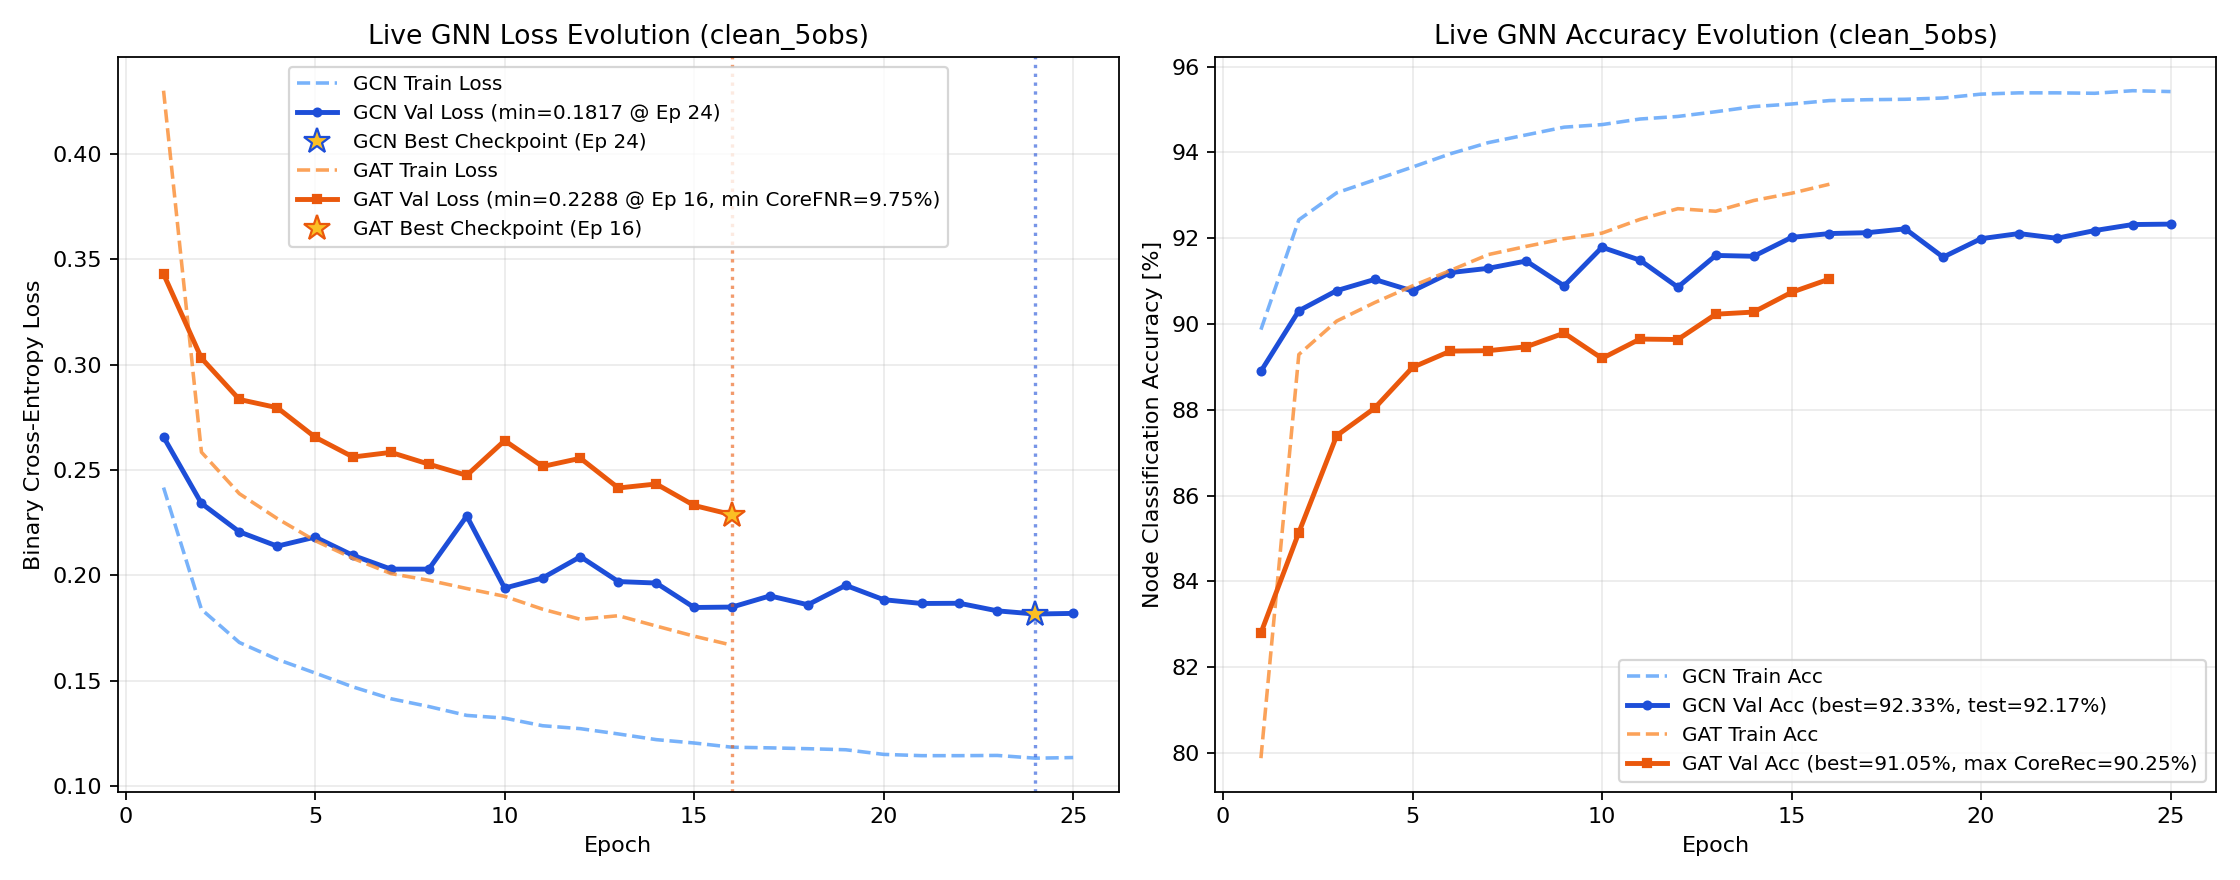
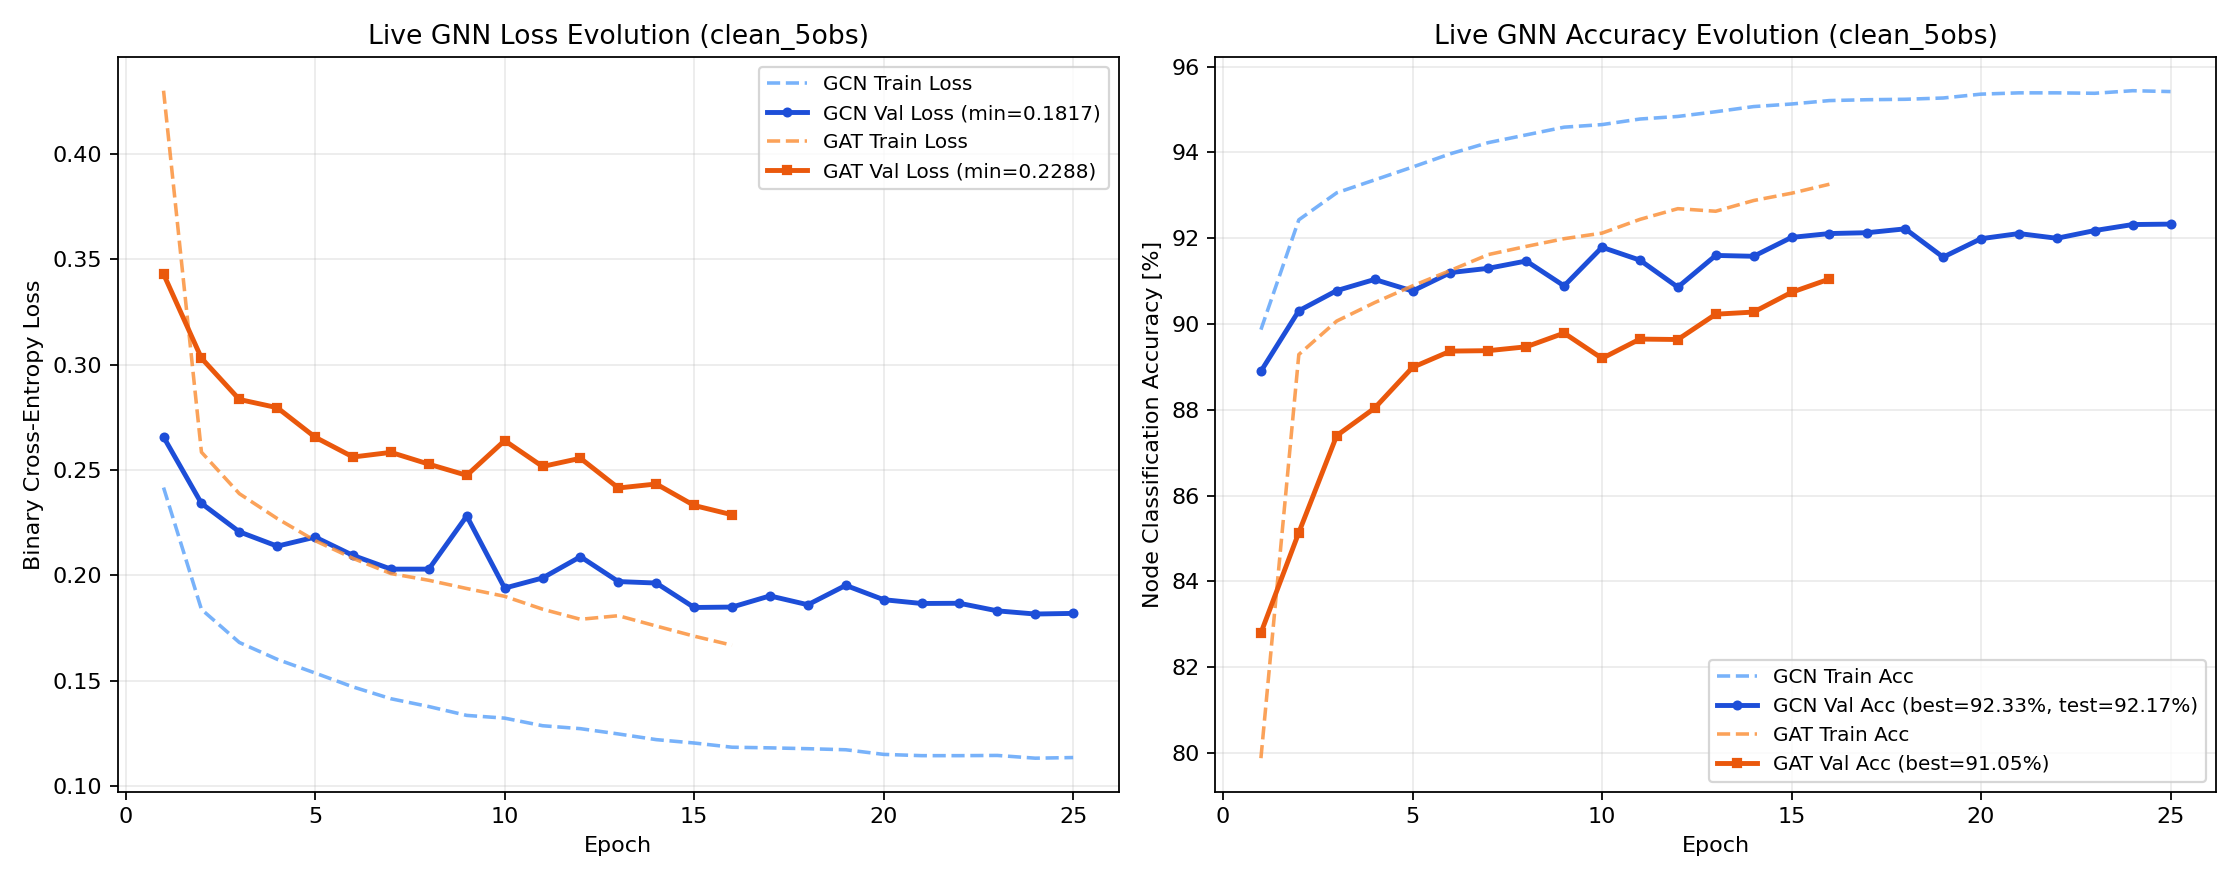
Update Study 2 live status and figures (2026-11-13 03:02)

diff --git a/LIVE_STATUS.md b/LIVE_STATUS.md
@@ -1,44 +1,30 @@
 # Live Pipeline Status on Jed
 
 ```text
-[2026-11-13 03:02:05] Study 2 Pipeline Status on Jed
+[2026-11-13 03:02:15] Study 2 Pipeline Status on Jed
 - Step 1 (Plummer ICs): 81 / 81 ready
 - Step 2 (SWIFT Runs): 81 / 81 completed (101 snapshots)
 - Step 3 (Observables): Labels=81/81 | Clean=81/81 | GaiaNoisy=81/81
 - Step 4 (5D Graphs): Clean=81/81 | GaiaNoisy=81/81
 - Step 5/6 Live GNN Training Progress:
-  * clean_5obs/training_metrics_gat_clean.log: Ep 016 | Train 0.1669 (93.26%) | Val 0.2288 (91.05%, Best=91.05%) | CoreFNR: 15.16% (min=9.75%) | Test=In progress
+  * clean_5obs/training_metrics_gat_clean.log: Ep 016 | Train 0.1669 (93.26%) | Val 0.2288 (91.05%, Best=91.05%) | Test=In progress
   * clean_5obs/training_metrics_gcn_clean.log: Ep 025 | Train 0.1136 (95.42%) | Val 0.1820 (92.33%, Best=92.33%) | Test=92.17%
   * legacy/clean_5obs_static_5rot/training_metrics_gcn_clean.log: Ep 025 | Train 0.1136 (95.42%) | Val 0.1820 (92.33%, Best=92.33%) | Test=92.17%
-- Saved Model Checkpoints (.pth): 8 mirrored in GNN-jed/trained_models/study2/weights/
 
 SLURM Queue:
 JOBID  PARTITION                   NAME   ST       TIME  NODES NODELIST(REASON)
       41146836   academic Study2_Step7_GCNStocha   PD       0:00      2 (Dependency)
 41146835_[0-4%   academic      Study2_Step6_4Obs   PD       0:00      2 (Dependency)
-      41146834   academic   Study2_Step5_Train81    R   12:17:28      2 jst[317,320]
+      41146834   academic   Study2_Step5_Train81    R   12:17:11      2 jst[317,320]
 ```
 
 ## Live Neural Network Training Metrics
 
-| Experiment | Architecture | Latest Epoch | Train Loss | Train Acc | Val Loss | Val Acc | Best Val Acc | Core FNR | Test Acc | Test F1 |
-| :--- | :---: | :---: | :---: | :---: | :---: | :---: | :---: | :---: | :---: | :---: |
-| `clean_5obs` | **GAT** | 16 | 0.1669 | 93.26% | 0.2288 | 91.05% | **91.05%** | 9.75% (val min) | **In progress** | - |
-| `clean_5obs` | **GCN** | 25 | 0.1136 | 95.42% | 0.1820 | 92.33% | **92.33%** | - | **92.17%** | 0.8886 |
-| `clean_5obs_static_5rot` | **GCN** | 25 | 0.1136 | 95.42% | 0.1820 | 92.33% | **92.33%** | - | **92.17%** | 0.8886 |
-
-## Saved Model Weights (`.pth` Checkpoints)
-
-| Checkpoint | Size | Experiment Path | Central Archive Mirror |
-| :--- | :---: | :--- | :--- |
-| `best_gat_clean.pth` | 361.2 KB | `GNN-jed/trained_models/study2/clean_5obs/best_gat_clean.pth` | `GNN-jed/trained_models/study2/weights/best_gat_clean.pth` |
-| `best_gat_clean_ep18_backup.pth` | 361.2 KB | `GNN-jed/trained_models/study2/clean_5obs/best_gat_clean_ep18_backup.pth` | `GNN-jed/trained_models/study2/weights/best_gat_clean_ep18_backup.pth` |
-| `best_gcn_clean.pth` | 120.0 KB | `GNN-jed/trained_models/study2/clean_5obs/best_gcn_clean.pth` | `GNN-jed/trained_models/study2/weights/best_gcn_clean.pth` |
-| `best_gat_clean_ep18_backup.pth` | 361.2 KB | `GNN-jed/trained_models/study2/legacy/clean_5obs_static_5rot/best_gat_clean_ep18_backup.pth` | `GNN-jed/trained_models/study2/weights/best_gat_clean_ep18_backup.pth` |
-| `best_gcn_clean.pth` | 120.0 KB | `GNN-jed/trained_models/study2/legacy/clean_5obs_static_5rot/best_gcn_clean.pth` | `GNN-jed/trained_models/study2/weights/best_gcn_clean.pth` |
-| `best_gat_clean.pth` | 361.2 KB | `GNN-jed/trained_models/study2/legacy/weights/best_gat_clean.pth` | `GNN-jed/trained_models/study2/weights/best_gat_clean.pth` |
-| `best_gat_clean_ep18_backup.pth` | 361.2 KB | `GNN-jed/trained_models/study2/legacy/weights/best_gat_clean_ep18_backup.pth` | `GNN-jed/trained_models/study2/weights/best_gat_clean_ep18_backup.pth` |
-| `best_gcn_clean.pth` | 120.0 KB | `GNN-jed/trained_models/study2/legacy/weights/best_gcn_clean.pth` | `GNN-jed/trained_models/study2/weights/best_gcn_clean.pth` |
+| Experiment | Architecture | Latest Epoch | Train Loss | Train Acc | Val Loss | Val Acc | Best Val Acc | Test Acc | Test F1 |
+| :--- | :---: | :---: | :---: | :---: | :---: | :---: | :---: | :---: | :---: |
+| `clean_5obs` | **GAT** | 16 | 0.1669 | 93.26% | 0.2288 | 91.05% | **91.05%** | **In progress** | - |
+| `clean_5obs` | **GCN** | 25 | 0.1136 | 95.42% | 0.1820 | 92.33% | **92.33%** | **92.17%** | 0.8886 |
+| `clean_5obs_static_5rot` | **GCN** | 25 | 0.1136 | 95.42% | 0.1820 | 92.33% | **92.33%** | **92.17%** | 0.8886 |
 
 ## Real-Time GNN Learning Curves (Loss & Accuracy Evolution)
 
